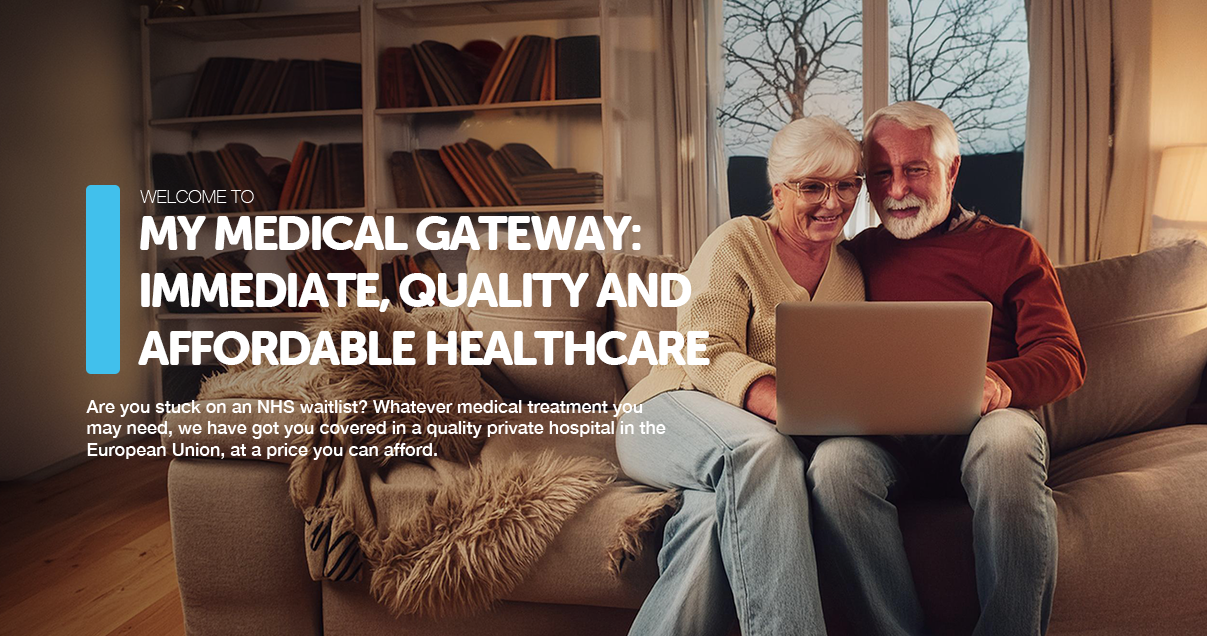
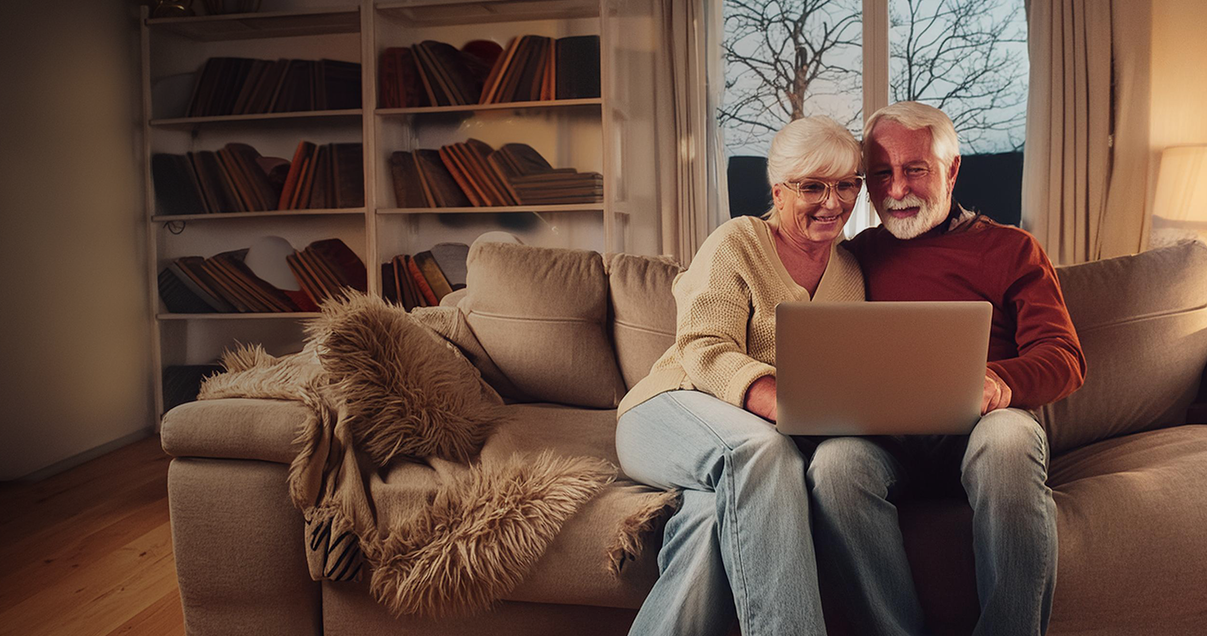
improvements to home page

Changed region(s): [[0.0613, 0.2689, 0.5824, 0.5975], [0.0613, 0.6274, 0.5518, 0.717]]

diff --git a/mmg/templates/pages/home.html b/mmg/templates/pages/home.html
@@ -6,9 +6,18 @@
 
 {% block content %}
 <div class="container content bg-image position-relative" style="background-image: url('{{ url_for('static', filename='./img/main-background.png') }}');
-    height: 630px; width: 1200px">
-  <div class="position-absolute top-100 start-50 translate-middle"
-    style="background-image: url('{{ url_for('static', filename='./img/Background.png') }}');">
+    height: 60vh; background-size: cover;  background-repeat: no-repeat;">\
+  <div class="container col-xxl-8 px-4 py-5 text-white">
+    <div class="row  align-items-left g-5 py-5">
+      <div class="col-lg-6">
+        <h1 class="display-5 fw-bold lh-1 mb-3">My Medical Gateway</h1>
+        <p class="lead fw-bold">sample text sample textsample textsample textsample textsample textsample textsample textsample text
+        sample textsample textsample textsample textsample textsample textsam</p>
+      </div>
+    </div>
+  </div>
+  <div class="position-absolute top-100 start-50 translate-middle p-5" style="background-image: url('{{ url_for('static', filename='./img/Background.png') }}');
+    background-size: 100% 100%;">
     <div class="buttons-container">
       <a class="btn" href="{{ url_for('pages.home') }}">
         <img src="{{ url_for('static', filename='./img/Orthopedics.png') }}" alt="Orthopedics">

diff --git a/mmg/templates/_navigation.html b/mmg/templates/_navigation.html
@@ -1,5 +1,5 @@
 <nav class="navbar bg-transparent">
-    <div class="container-fluid">
+    <div class="container-fluid p-0">
         <a class="navbar-brand" href="{{ url_for('pages.home') }}">
             <img src="{{ url_for('static', filename='./img/header/mmg-logo-small.png') }}"
                 alt="My Medical gateway">
@@ -52,7 +52,7 @@
         </div>
     </div>
 
-    <div class="container-fluid">
+    <div class="container-fluid p-0">
         <ul class="nav nav-pills bg-body-secondary container-fluid">
             <li class="nav-item">
                         <a class="nav-link" aria-current="page" href="{{ url_for('pages.home') }}">Home</a>

diff --git a/mmg/templates/treatment-base.html b/mmg/templates/treatment-base.html
@@ -1,0 +1,9 @@
+{% extends 'base.html' %}
+
+{% block header %}
+  <h2>{% block title %}About{% endblock title %}</h2>
+{% endblock header %}
+
+{% block content %}
+  <p>This is a message board for friendly messages.</p>
+{% endblock content %}

diff --git a/mmg/static/main.css b/mmg/static/main.css
@@ -1,3 +1,4 @@
+/* Navbar override*/
 .nav-link,
 .navbar-brand {
     color: #000;
@@ -17,5 +18,5 @@
     height: auto;
 }
 .navbar .navbar-brand img{
-    width: 160px !important;
+    width: 220px !important;
 }
